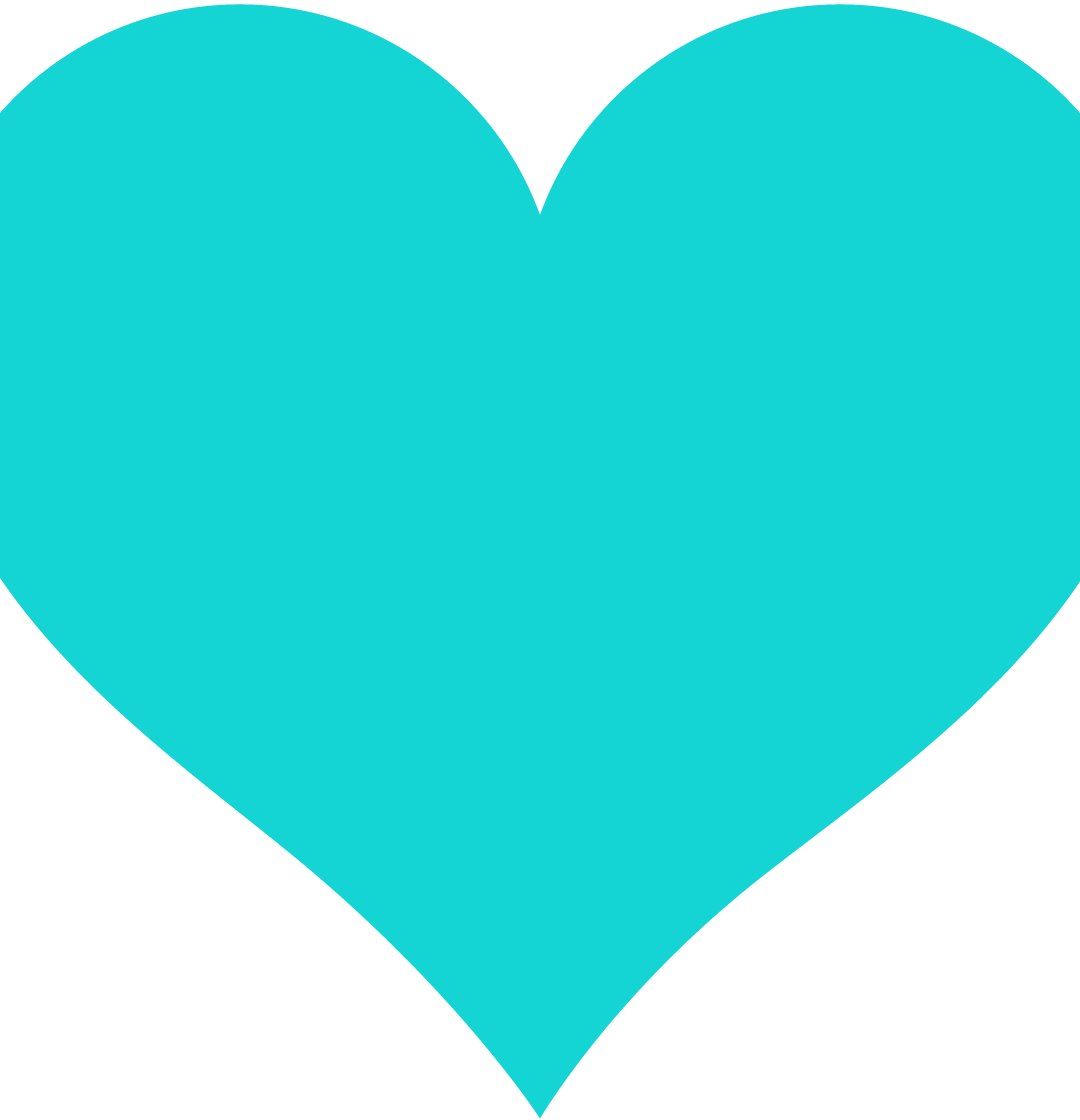
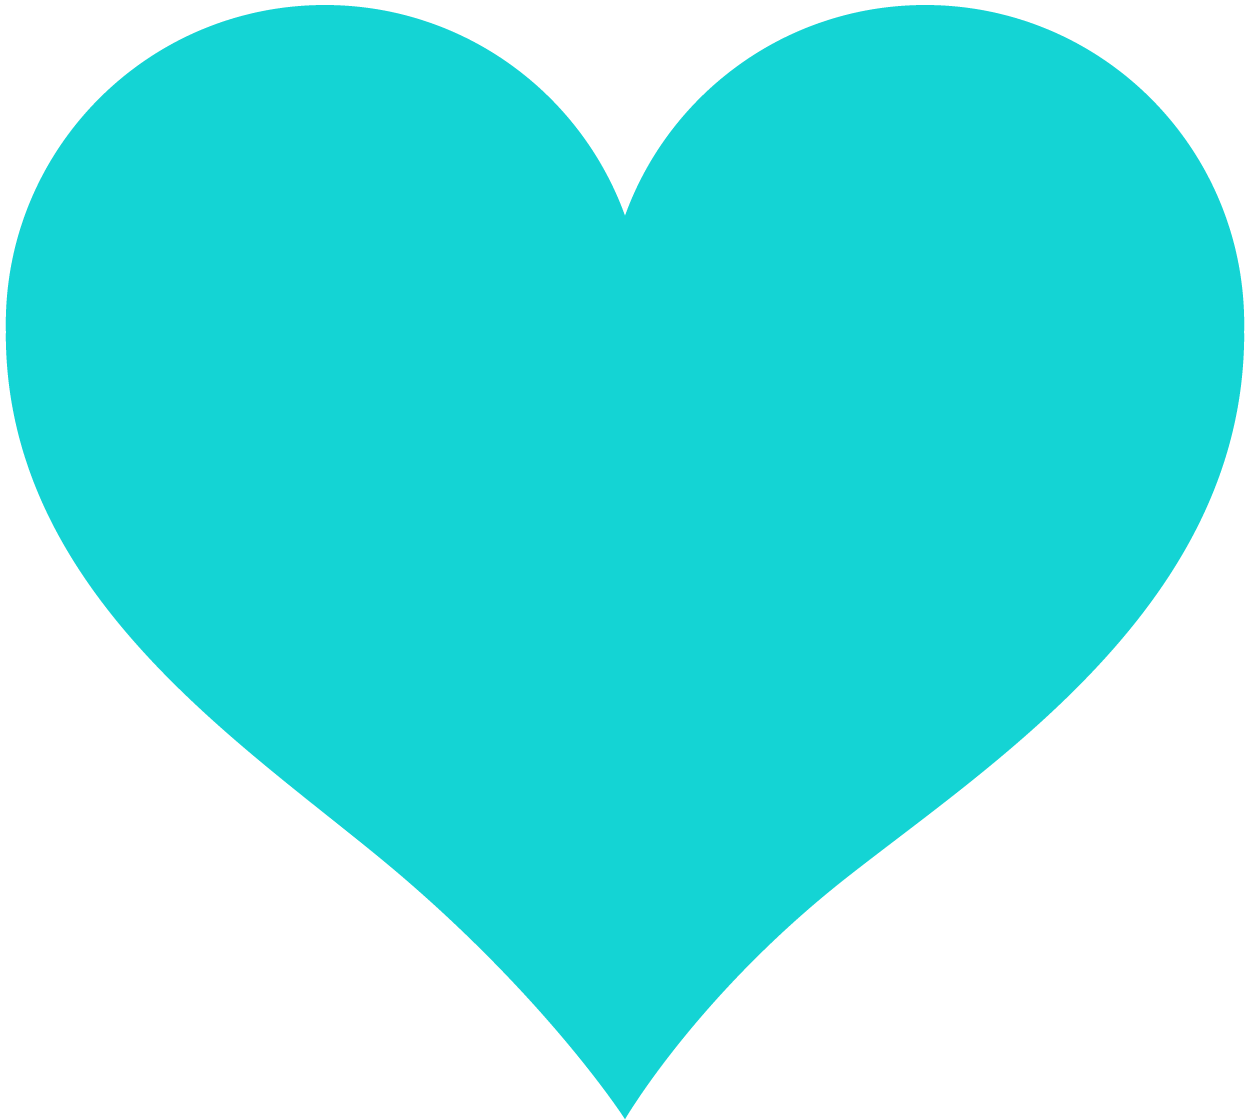
心拍計の画像を差し替え

diff --git a/app/css/content-heartrate.css b/app/css/content-heartrate.css
@@ -60,7 +60,7 @@
 }
 
 .heartrate {
-  font-size:192px;
+  font-size:148px;
   color: #FFFFFF;
   padding: 0px;
   margin: 0px;
